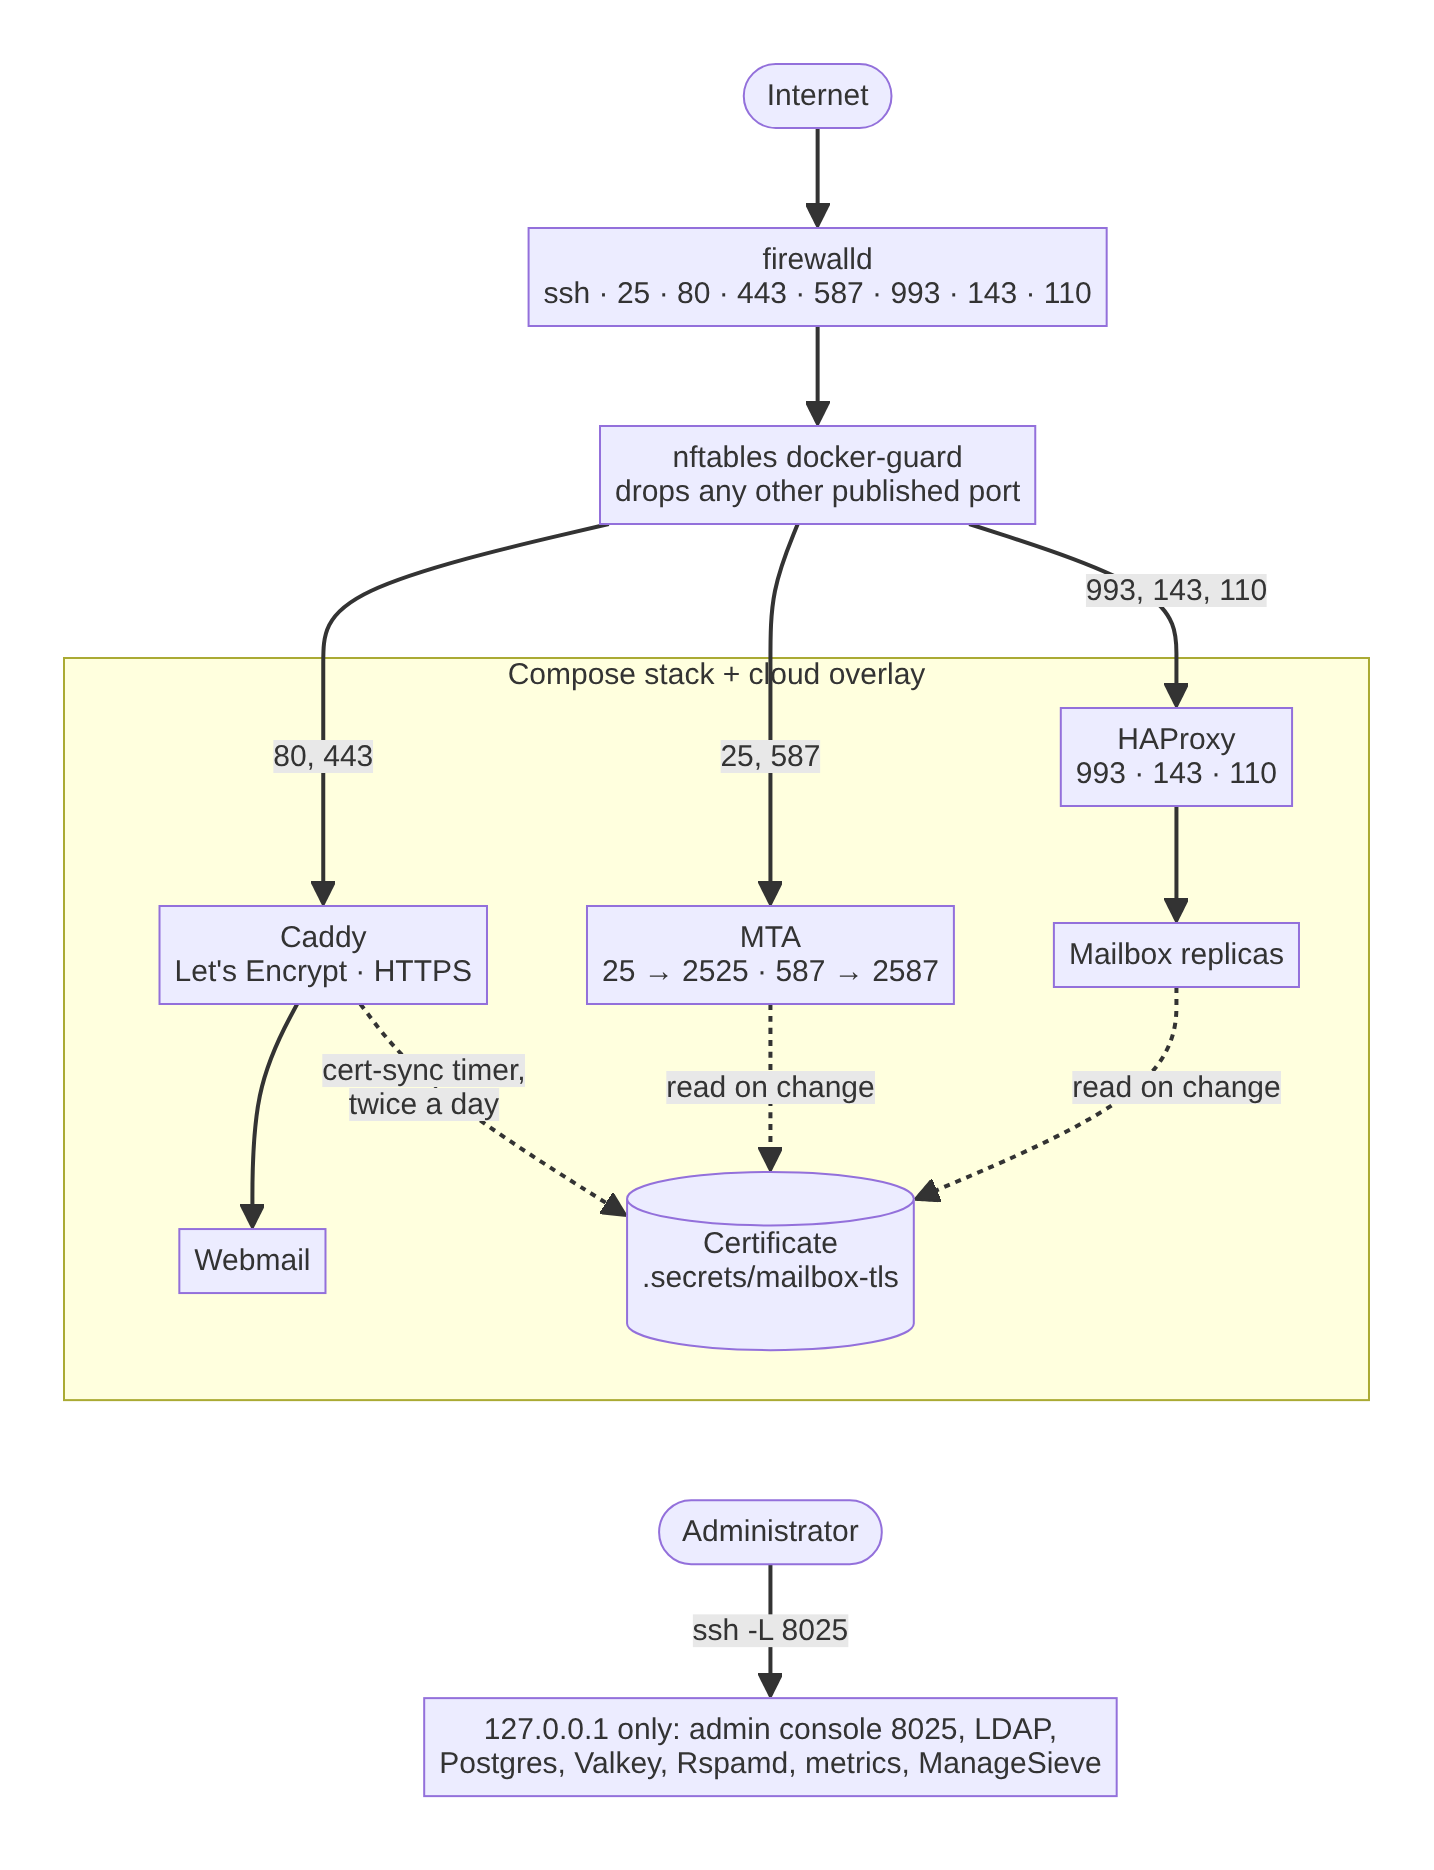
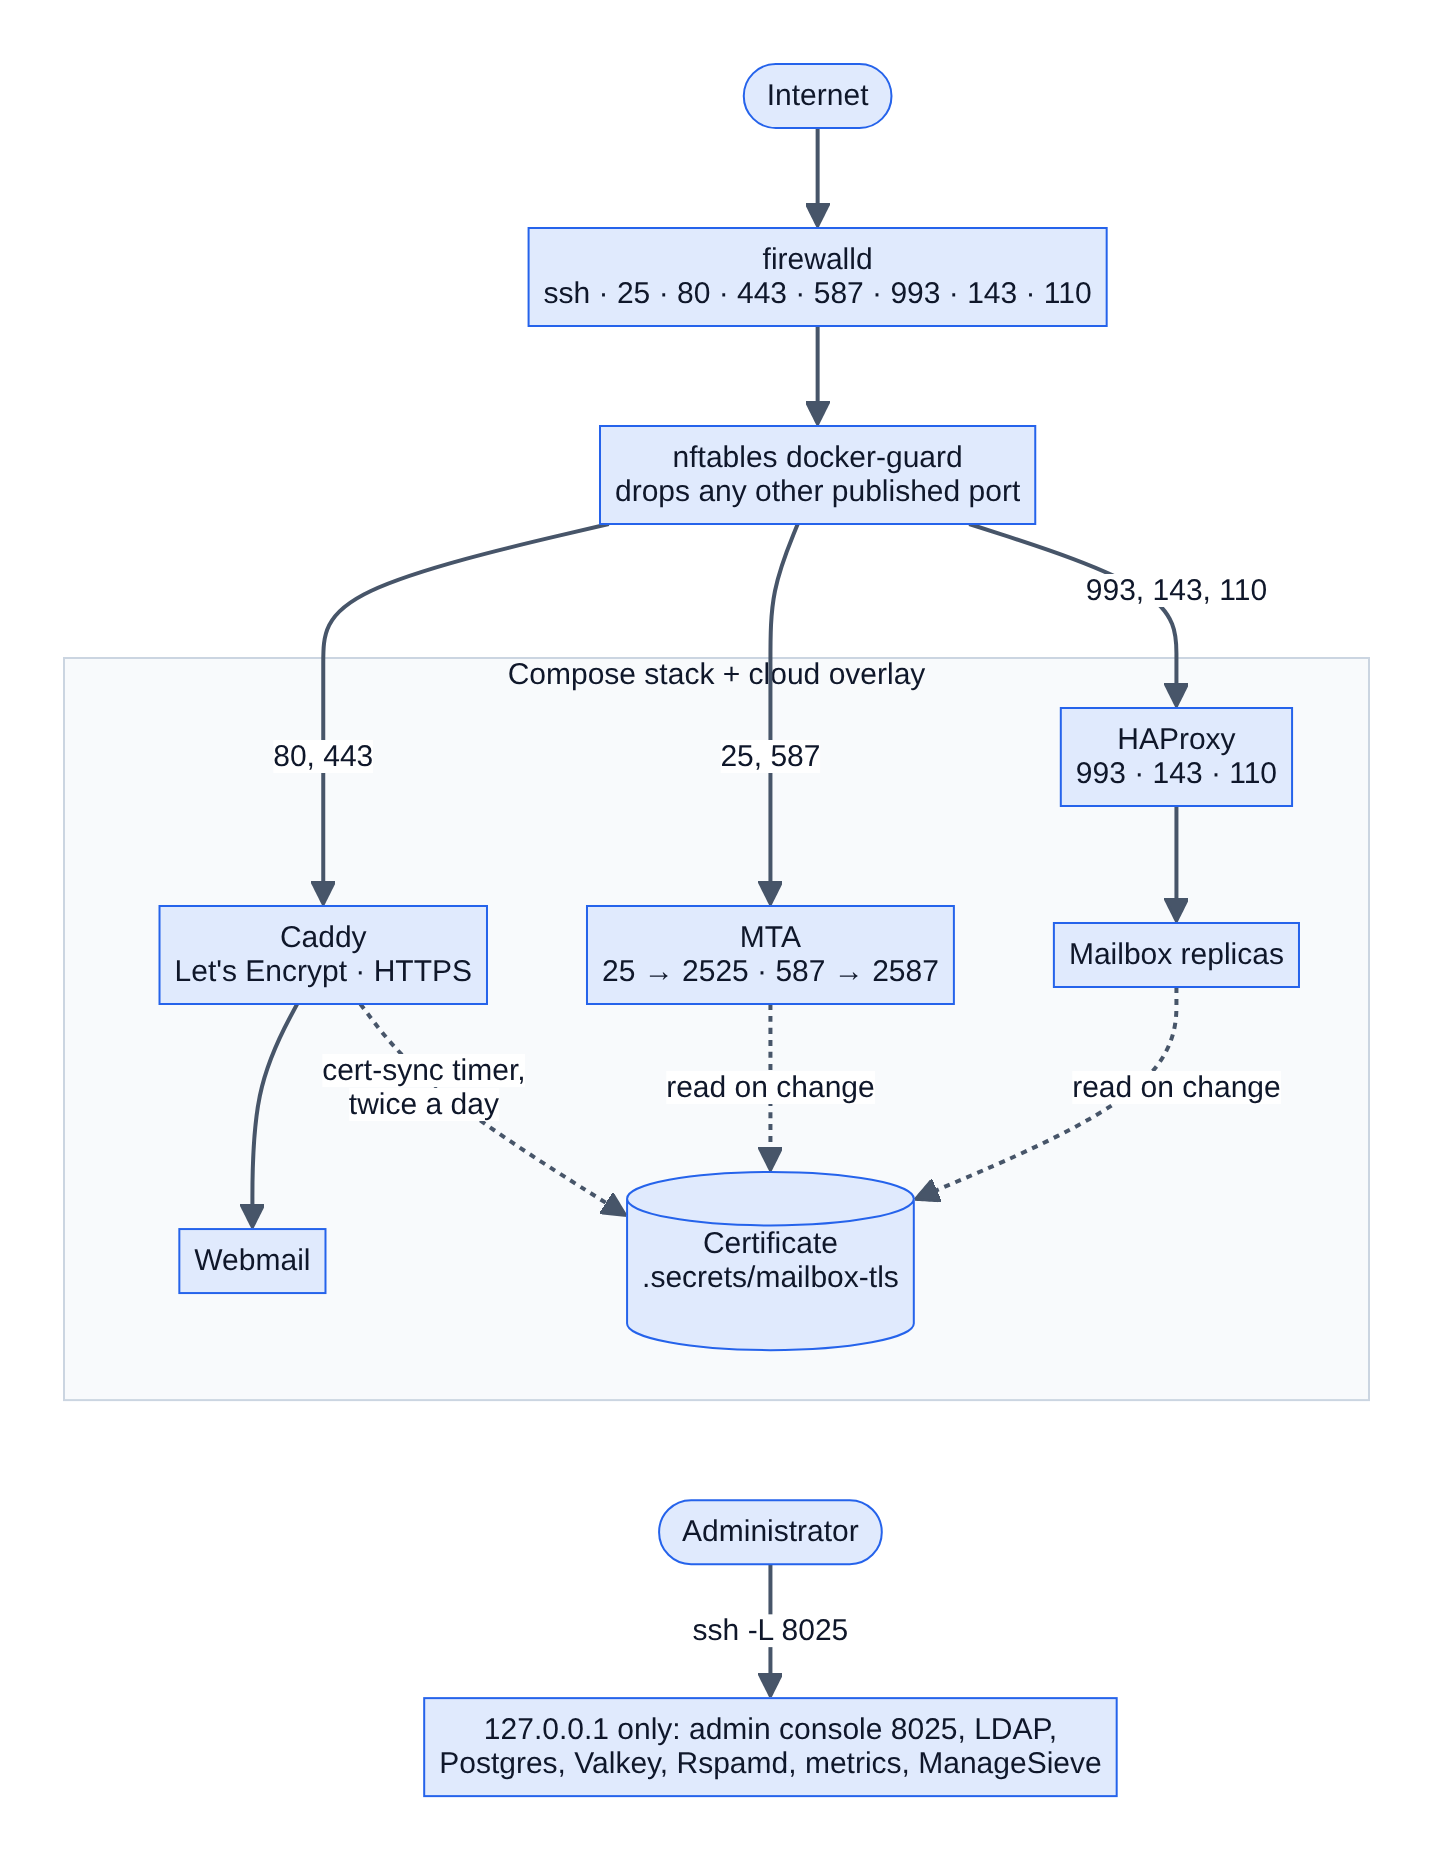
Docs: draw the diagrams in the webmail and admin console's colours
The diagrams used Mermaid's default lavender and yellow, which looked
nothing like the product. render-diagrams.py now uses Mermaid's base
theme with the default palette, the :root variables in tidewater.css:

- boxes: accent-soft fill (#E0EAFD) with an accent border (#2563EB), the
  look of a selected item in the app
- text: ink (#0F172A)
- connecting lines: muted slate (#475569)
- groups: the light card surface (#F8FAFC) with a quiet border
- sequence notes: drawn as cards

The colours sit in one table at the top of the script, so they can follow
the stylesheet if it changes. All eight images were re-rendered from
unchanged sources.

diff --git a/scripts/render-diagrams.py b/scripts/render-diagrams.py
@@ -25,15 +25,35 @@ MERMAID = "https://cdn.jsdelivr.net/npm/mermaid@10.9.1/dist/mermaid.min.js"
 ROOT = pathlib.Path(__file__).resolve().parent.parent
 DIAGRAMS = ROOT / "docs" / "diagrams"
 SCALE = 2  # device pixels per CSS pixel, so the PNGs stay sharp when zoomed
+
+# The webmail and admin console's default palette (the :root variables in
+# internal/webmail/static/tidewater.css), so the diagrams look like the product.
+ACCENT, ACCENT_SOFT, INK, MUTED = "#2563EB", "#E0EAFD", "#0F172A", "#475569"
+LINE, SURFACE, SURFACE_2 = "#CBD5E1", "#FFFFFF", "#F8FAFC"
+THEME = {
+    "fontFamily": "Helvetica, Arial, sans-serif", "fontSize": "15px",
+    "background": SURFACE,
+    # Boxes: the accent-soft fill with an accent border, like selected items.
+    "primaryColor": ACCENT_SOFT, "primaryBorderColor": ACCENT, "primaryTextColor": INK,
+    "secondaryColor": SURFACE_2, "tertiaryColor": SURFACE,
+    "lineColor": MUTED, "textColor": INK,
+    # Groups: the light card surface with a quiet border.
+    "clusterBkg": SURFACE_2, "clusterBorder": LINE, "titleColor": INK,
+    "edgeLabelBackground": SURFACE,
+    # Sequence diagrams.
+    "actorBkg": ACCENT_SOFT, "actorBorder": ACCENT, "actorTextColor": INK, "actorLineColor": LINE,
+    "signalColor": MUTED, "signalTextColor": INK,
+    "noteBkgColor": SURFACE_2, "noteBorderColor": LINE, "noteTextColor": INK,
+}
 PAD = 24
 
 PAGE = """<!doctype html><html><head><meta charset="utf-8"><style>
 body {{ margin: 0; background: #fff; }}
 #d {{ display: inline-block; padding: {pad}px; }}
 </style></head><body><div id="d"></div><script src="{mermaid}"></script><script>
-mermaid.initialize({{startOnLoad: false, theme: "default", securityLevel: "strict",
+mermaid.initialize({{startOnLoad: false, theme: "base", securityLevel: "strict",
   flowchart: {{useMaxWidth: false, htmlLabels: true}}, sequence: {{useMaxWidth: false, actorMargin: 40, width: 130, noteMargin: 8}},
-  themeVariables: {{fontFamily: "Helvetica, Arial, sans-serif", fontSize: "15px"}}}});
+  themeVariables: {theme}}});
 mermaid.render("svg", {source}).then(r => {{
   const d = document.getElementById("d");
   d.innerHTML = r.svg;
@@ -59,7 +79,7 @@ def headless(browser, *args):
 
 def render(browser, source: pathlib.Path, work: pathlib.Path):
     page = work / (source.stem + ".html")
-    page.write_text(PAGE.format(pad=PAD, mermaid=MERMAID, source=json.dumps(source.read_text())))
+    page.write_text(PAGE.format(pad=PAD, mermaid=MERMAID, theme=json.dumps(THEME), source=json.dumps(source.read_text())))
     # First pass: lay the diagram out and read its size from the title.
     out = headless(browser, "--window-size=4000,4000", "--dump-dom", page.as_uri()).stdout
     title = re.search(r"<title>(.*?)</title>", out)
